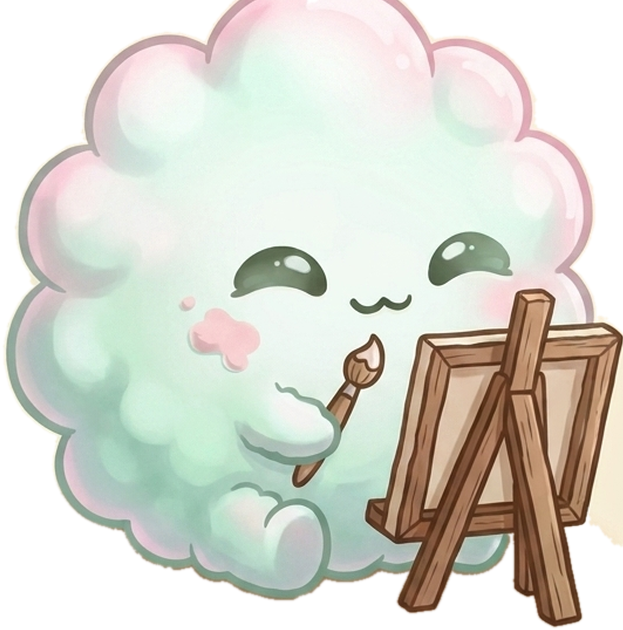
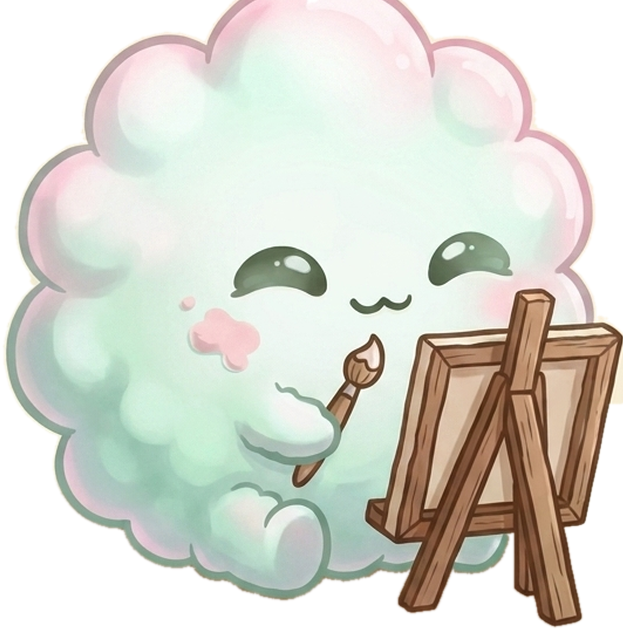
Clear the last of the mascot's ground shadow
A warm streak survived under the easel and read as dirt against the sky.
Widened the shadow band and loosened the warmth threshold, still keyed off
"warm and mid-bright" so the dark easel timber is untouched.

diff --git a/tools/shot_live.py b/tools/shot_live.py
@@ -1,0 +1,26 @@
+"""Screenshot the deployed site, to confirm production matches local."""
+import sys
+from pathlib import Path
+
+from playwright.sync_api import sync_playwright
+
+BASE = "https://metaseonso.github.io/midori-fuwafuwa/"
+SHOTS = Path(__file__).resolve().parent.parent / ".shots"
+
+path = sys.argv[1] if len(sys.argv) > 1 else ""
+scroll = int(sys.argv[2]) if len(sys.argv) > 2 else 0
+out = sys.argv[3] if len(sys.argv) > 3 else "live.png"
+
+SHOTS.mkdir(exist_ok=True)
+with sync_playwright() as p:
+    b = p.chromium.launch()
+    pg = b.new_context(viewport={"width": 1440, "height": 900},
+                       device_scale_factor=2).new_page()
+    pg.goto(BASE + path, wait_until="networkidle")
+    pg.wait_for_timeout(1200)
+    if scroll:
+        pg.evaluate(f"window.scrollTo(0,{scroll})")
+        pg.wait_for_timeout(800)
+    pg.screenshot(path=str(SHOTS / out))
+    print("wrote", out, "| page height", pg.evaluate("document.body.scrollHeight"))
+    b.close()
